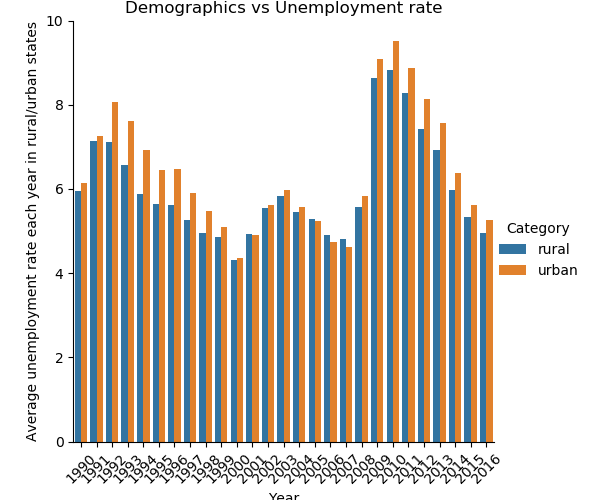
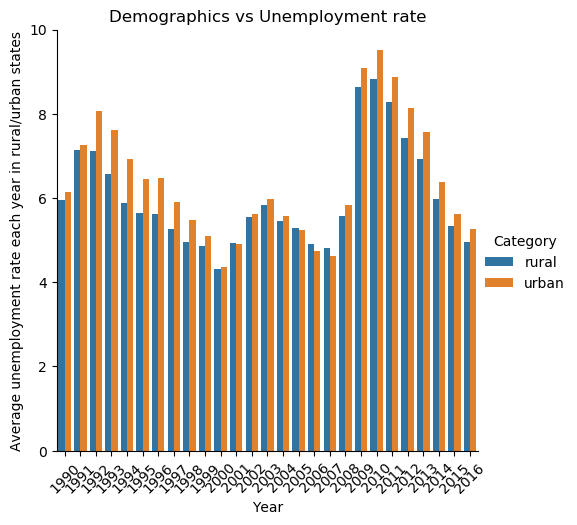
m

diff --git a/CSE163_Project.py b/CSE163_Project.py
@@ -89,7 +89,8 @@ def create_poli_gdp_df(political_party, gdp_total):
     #find average of each column
     #make new df
     result = pd.DataFrame()
-    years = list(gdp_total.loc[:, (gdp_total.columns != "GeoFips") & (gdp_total.columns != "GeoName")].columns)
+    years = list(gdp_total.loc[:, (gdp_total.columns != "GeoFips") 
+            & (gdp_total.columns != "GeoName")].columns)
     for year in years:
         df1_filtered = political_party[political_party["year"] == int(year)]
         df2_filtered = gdp_total[["GeoName", year]]
@@ -127,13 +128,18 @@ def demographics_economy_GDP(GDP, urban):
         for i in range(1997, 2019):
             year.append(i)      
     result['year'] = year
-    combined = GDP.loc[1:, :].merge(urban.loc[1:, ['Area Name', '2000_per', '2010_per']], left_on='GeoName', right_on='Area Name', how='left')
+    combined = GDP.loc[1:, :].merge(urban.loc[1:, ['Area Name', '2000_per', '2010_per']],
+                                    left_on='GeoName', right_on='Area Name', how='left')
     combined = combined.dropna()
     # split the dataset
-    first_decade_urban = combined[combined['2000_per'] >= urbanized_factor(combined, '2000_per')]
-    first_decade_rural = combined[combined['2000_per'] < urbanized_factor(combined, '2000_per')]
-    second_decade_urban = combined[combined['2010_per'] >= urbanized_factor(combined, '2010_per')]
-    second_decade_rural = combined[combined['2010_per'] < urbanized_factor(combined, '2010_per')]
+    first_decade_urban = combined[combined['2000_per'] 
+                                  >= urbanized_factor(combined, '2000_per')]
+    first_decade_rural = combined[combined['2000_per'] 
+                                  < urbanized_factor(combined, '2000_per')]
+    second_decade_urban = combined[combined['2010_per'] 
+                                   >= urbanized_factor(combined, '2010_per')]
+    second_decade_rural = combined[combined['2010_per'] 
+                                   < urbanized_factor(combined, '2010_per')]
     # Create a new dataframe for plotting
     cate = list()
     for i in range(1997, 2019):
@@ -141,12 +147,13 @@ def demographics_economy_GDP(GDP, urban):
     for i in range(1997, 2019):
         cate.append('rural')
     result['category'] = cate
-    result['GDP'] = make_columns(first_decade_urban, second_decade_urban) + make_columns(first_decade_rural, second_decade_rural)
+    result['GDP'] = make_columns(first_decade_urban, second_decade_urban) \
+                     + make_columns(first_decade_rural, second_decade_rural)
     sns.catplot(x='year', y='GDP', data=result, hue='category', kind='bar')
     plt.xticks(rotation = 45)
     plt.ylabel('Avearge GDP each year in rural/urban states(USD)')
     plt.title('Demographics vs GDP')
-    plt.savefig('demographics_vs_economy_GDP.png')
+    plt.savefig('demographics_vs_economy_GDP.png', bbox_inches='tight')
 
 
 def demographics_economy_unemployment(unemploy, urban):
@@ -163,7 +170,8 @@ def demographics_economy_unemployment(unemploy, urban):
     """
     result = pd.DataFrame()
     # merge the dataset
-    combined = unemploy.merge(urban.loc[1:, ['Area Name', '1990_per', '2000_per', '2010_per']], left_on='State', right_on='Area Name', how='left')
+    combined = unemploy.merge(urban.loc[1:, ['Area Name', '1990_per', '2000_per', '2010_per']], 
+                              left_on='State', right_on='Area Name', how='left')
     combined = combined.dropna()
     # Create a dataframe for plotting
     rate_col = list()
@@ -177,7 +185,8 @@ def demographics_economy_unemployment(unemploy, urban):
     # Split dataset based on urban/rural
     decade = find_decade(combined, 1990, 2020)
     for i in range(6):
-        res = decade[i].groupby(['Year', 'State'])['Rate'].mean().to_frame(name ='Rate').reset_index().groupby('Year')['Rate'].mean().tolist()
+        res = decade[i].groupby(['Year', 'State'])['Rate'].mean().to_frame(name ='Rate')
+        res = res.reset_index().groupby('Year')['Rate'].mean().tolist()
         rate_col += res
     result['Year'] = year
     result['Category'] = category
@@ -186,7 +195,7 @@ def demographics_economy_unemployment(unemploy, urban):
     plt.xticks(rotation = 45)
     plt.ylabel('Average unemployment rate each year in rural/urban states')
     plt.title('Demographics vs Unemployment rate')
-    plt.savefig('demographics_vs_economy_Unemployment.png')
+    plt.savefig('demographics_vs_economy_Unemployment.png', bbox_inches='tight')
 
 
 def find_decade(df, year1, year2):
@@ -197,9 +206,11 @@ def find_decade(df, year1, year2):
     """
     res = list()
     for i in range(year1, year2, 10):
-        res.append(df[(df[str(i)+'_per'] < urbanized_factor(df, str(i)+'_per')) & ((df['Year'] >= i) & (df['Year'] < i+10))])
+        res.append(df[(df[str(i)+'_per'] < urbanized_factor(df, str(i)+'_per')) 
+                      & ((df['Year'] >= i) & (df['Year'] < i+10))])
     for i in range(year1, year2, 10):
-        res.append(df[(df[str(i)+'_per'] >= urbanized_factor(df, str(i)+'_per')) & ((df['Year'] >= i) & (df['Year'] < i+10))])
+        res.append(df[(df[str(i)+'_per'] >= urbanized_factor(df, str(i)+'_per')) 
+                      & ((df['Year'] >= i) & (df['Year'] < i+10))])
     return res
 
 def demographics_economy_min_wage(wage, urban):
@@ -216,7 +227,9 @@ def demographics_economy_min_wage(wage, urban):
     """
     result = pd.DataFrame()
     # merged dataset
-    combined = wage.merge(urban.loc[1:, ['Area Name', '1960_per', '1970_per', '1980_per', '1990_per', '2000_per', '2010_per']], left_on='State', right_on='Area Name', how='left')
+    combined = wage.merge(urban.loc[1:, 
+                    ['Area Name', '1960_per', '1970_per', '1980_per', '1990_per', '2000_per', '2010_per']], 
+                    left_on='State', right_on='Area Name', how='left')
     combined['Low.Value'] = combined['Low.Value'].fillna(0)
     # create new dataframe for plotting
     wage = list()
@@ -230,7 +243,8 @@ def demographics_economy_min_wage(wage, urban):
     # Split data based on rural/urban
     decade = find_decade(combined, 1960, 2020)
     for i in range(12):
-        res = decade[i].groupby(['Year'])['Low.Value'].mean().to_frame(name ='Low.Value').reset_index()['Low.Value'].tolist()
+        res = decade[i].groupby(['Year'])['Low.Value'].mean().to_frame(name ='Low.Value')
+        res = res.reset_index()['Low.Value'].tolist()
         wage += res
     result['Year'] = year
     result['Category'] = category
@@ -240,7 +254,7 @@ def demographics_economy_min_wage(wage, urban):
     plt.xticks(rotation = 90)
     plt.ylabel('Average minimum wage each year in rural/urban states(USD)')
     plt.title('Demographics vs Min Wage')
-    plt.savefig('demographics_vs_economy_min_wage.png')
+    plt.savefig('demographics_vs_economy_min_wage.png', bbox_inches='tight')
 
 
 def make_columns(df1, df2):
@@ -276,13 +290,15 @@ def question2(pop, GDP_Total):
     # Split the whole population into three based on the average pop of each year
     pop2 = pop.loc[:, 'Alaska':'medium']
     low_pop = pop2[pop.loc[:, 'Alaska':'Wyoming'] < pop.loc[:, 'below'].mean()]
-    medium_pop = pop2[(pop.loc[:, 'Alaska':'Wyoming'] > pop.loc[:, 'below'].mean()) & (pop.loc[:, 'Alaska':'Wyoming'] < pop.loc[:, 'medium'].mean())]
+    medium_pop = pop2[(pop.loc[:, 'Alaska':'Wyoming'] > pop.loc[:, 'below'].mean()) 
+                      & (pop.loc[:, 'Alaska':'Wyoming'] < pop.loc[:, 'medium'].mean())]
     large_pop = pop2[pop.loc[:, 'Alaska':'Wyoming'] > pop.loc[:, 'medium'].mean()]
     # Match GDP with population
     GDP = GDP_Total.loc[:, 'Alaska':'Wyoming']
     low_pop_GDP = GDP[pop.loc[:, 'Alaska':'Wyoming'] < pop.loc[:, 'below'].mean()]
     low_pop_GDP['Sum'] = low_pop_GDP.mean(axis=1)
-    medium_pop_GDP = GDP[(pop.loc[:, 'Alaska':'Wyoming'] > pop.loc[:, 'below'].mean()) & (pop.loc[:, 'Alaska':'Wyoming'] < pop.loc[:, 'medium'].mean())]
+    medium_pop_GDP = GDP[(pop.loc[:, 'Alaska':'Wyoming'] > pop.loc[:, 'below'].mean()) 
+                         & (pop.loc[:, 'Alaska':'Wyoming'] < pop.loc[:, 'medium'].mean())]
     medium_pop_GDP['Sum'] = medium_pop_GDP.mean(axis=1)
     large_pop_GDP = GDP[pop.loc[:, 'Alaska':'Wyoming'] > pop.loc[:, 'medium'].mean()]
     large_pop_GDP['Sum'] = large_pop_GDP.mean(axis=1)
@@ -298,21 +314,21 @@ def question2(pop, GDP_Total):
     sns.relplot(x='Sum', y='GDP', data=low_pop, kind='scatter', size='year')
     plt.xticks(rotation = 45)
     plt.xlabel('Total population in thousands from 1997 to 2018')
-    plt.ylabel('Average GDP of all low population states in dollars')
+    plt.ylabel('Average GDP of all low population states in millions of dollar')
     plt.title('Correlation between population in low population state and GDP')
-    plt.savefig("low_pop_vs_GDP.png")
+    plt.savefig('low_pop_vs_GDP.png', bbox_inches='tight')
     sns.relplot(x='Sum', y='GDP', data=medium_pop, kind='scatter', size='year')
     plt.xticks(rotation = 45)
     plt.xlabel('Total population in thousands from 1997 to 2018')
-    plt.ylabel('Average GDP of all medium population states in dollars')
+    plt.ylabel('Average GDP of all medium population states in millions of dollar')
     plt.title('Correlation between population in medium population state and GDP')
-    plt.savefig("medium_pop_vs_GDP.png")
+    plt.savefig('medium_pop_vs_GDP.png', bbox_inches='tight')
     sns.relplot(x='Sum', y='GDP', data=large_pop, kind='scatter', size='year')
     plt.xticks(rotation = 45)
     plt.xlabel('Total population in thousands from 1997 to 2018')
-    plt.ylabel('Average GDP of all large population states in dollars')
+    plt.ylabel('Average GDP of all large population states in millions of dollar')
     plt.title('Correlation between population in large population state and GDP')
-    plt.savefig("large_pop_vs_GDP.png")
+    plt.savefig('large_pop_vs_GDP.png', bbox_inches='tight')
 
     
 def question3(pop, percent_gdp, urban):
@@ -320,21 +336,30 @@ def question3(pop, percent_gdp, urban):
     # Combining pop, percent gdp and urban csv into one dataframe on the States' name
     pop_2 = pop.loc[1:, '1/1/1997':'1/1/2017']
     pop_2['State'] = pop.loc[1:, 'State']
-    combined = pop_2.merge(urban.loc[1:, ['Area Name', '1990_per', '2000_per', '2010_per']], left_on='State', right_on='Area Name', how='left')
-    combined = combined.merge(percent_gdp.loc[1:, 'GeoName':'2017-2018'], left_on='State', right_on='GeoName', how='left')
-    first_decade_urban = combined[combined['1990_per'] >= urbanized_factor(combined, '1990_per')]
-    first_decade_rural = combined[combined['1990_per'] < urbanized_factor(combined, '1990_per')]
-    second_decade_urban = combined[combined['2000_per'] >= urbanized_factor(combined, '2000_per')]
-    second_decade_rural = combined[combined['2000_per'] < urbanized_factor(combined, '2000_per')]
-    third_decade_urban = combined[combined['2010_per'] >= urbanized_factor(combined, '2010_per')]
-    third_decade_rural = combined[combined['2010_per'] < urbanized_factor(combined, '2010_per')]
+    combined = pop_2.merge(urban.loc[1:, ['Area Name', '1990_per', '2000_per', '2010_per']], 
+                           left_on='State', right_on='Area Name', how='left')
+    combined = combined.merge(percent_gdp.loc[1:, 'GeoName':'2017-2018'], 
+                              left_on='State', right_on='GeoName', how='left')
+    first_decade_urban = combined[combined['1990_per'] 
+                                  >= urbanized_factor(combined, '1990_per')]
+    first_decade_rural = combined[combined['1990_per'] 
+                                  < urbanized_factor(combined, '1990_per')]
+    second_decade_urban = combined[combined['2000_per'] 
+                                   >= urbanized_factor(combined, '2000_per')]
+    second_decade_rural = combined[combined['2000_per'] 
+                                   < urbanized_factor(combined, '2000_per')]
+    third_decade_urban = combined[combined['2010_per'] 
+                                  >= urbanized_factor(combined, '2010_per')]
+    third_decade_rural = combined[combined['2010_per'] 
+                                  < urbanized_factor(combined, '2010_per')]
     # Creating a new dataframe for the regression model
     pop = list() # population of the corresponding state, year, and category(rural/urban)
     year = list() # year from 1997 to 2017
     category = list() # urban or rural
     states = list() # all state 
     gdp_per = list() # gdp per of the corresponding state, year and category
-    all_decade = [first_decade_rural,first_decade_urban,second_decade_rural,second_decade_urban, third_decade_rural, third_decade_urban]
+    all_decade = [first_decade_rural,first_decade_urban,second_decade_rural,
+                  second_decade_urban, third_decade_rural, third_decade_urban]
     decades = [1990, 1990, 2000, 2000, 2010, 2010]
     cate = ['rural', 'urban', 'rural', 'urban', 'rural', 'urban']
     for i in range(6):
